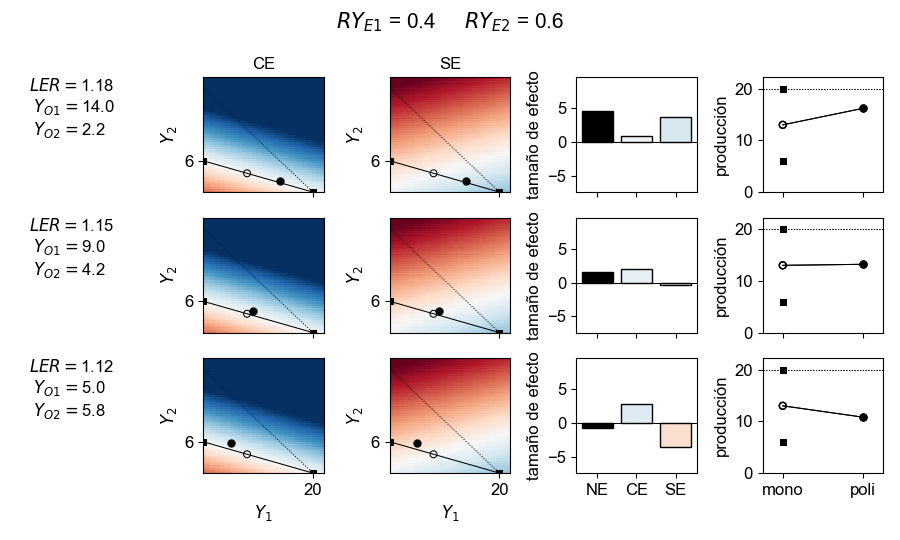
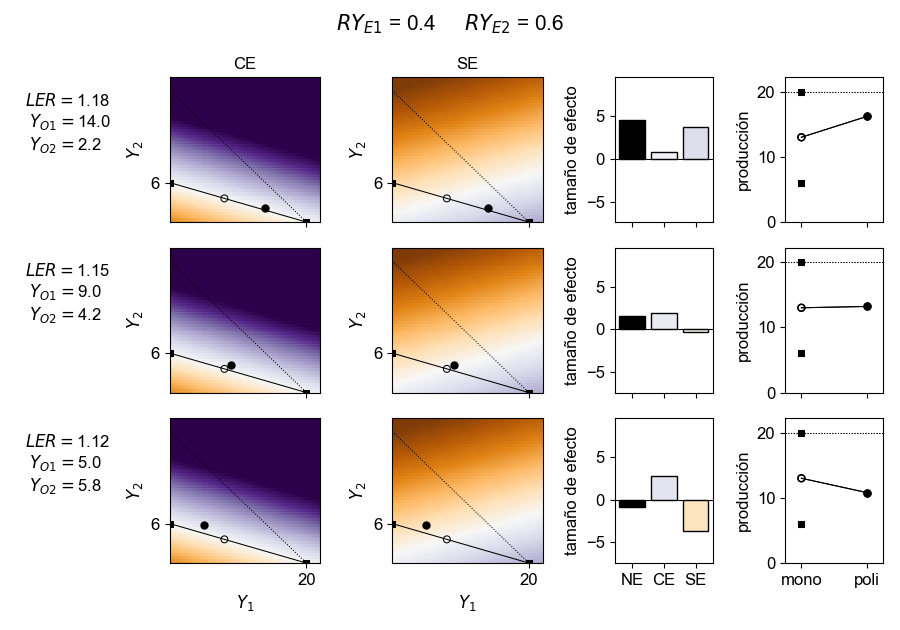
Actualización de imágenes y agregar ejemplo a README

diff --git a/README.md b/README.md
@@ -1,3 +1,6 @@
 # Partición Aditiva de los Efectos de Biodiversidad
 
 Código para graficar páneles donde se explora la relación entre la tasa equivalente de superficie (LER) y los efectos de biodiversidad.
+
+![Relación de los efectos de biodiversidad con la tasa equivalente de superficie](./results/exploracion-BE-merge-0-0.png)
+Relación de los efectos de biodiversidad con la tasa equivalente de superficie (LER).
